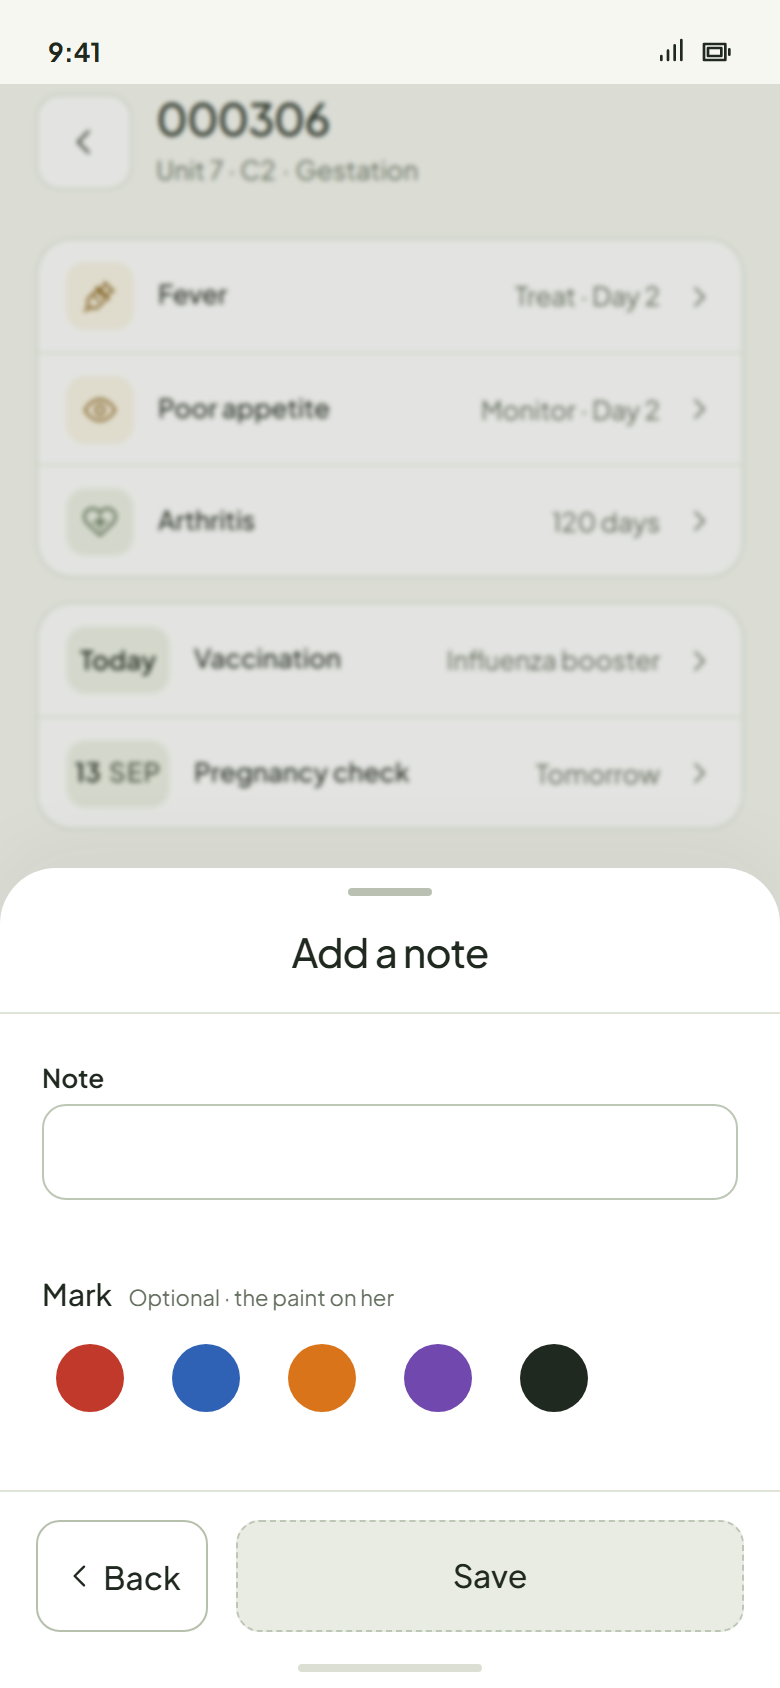
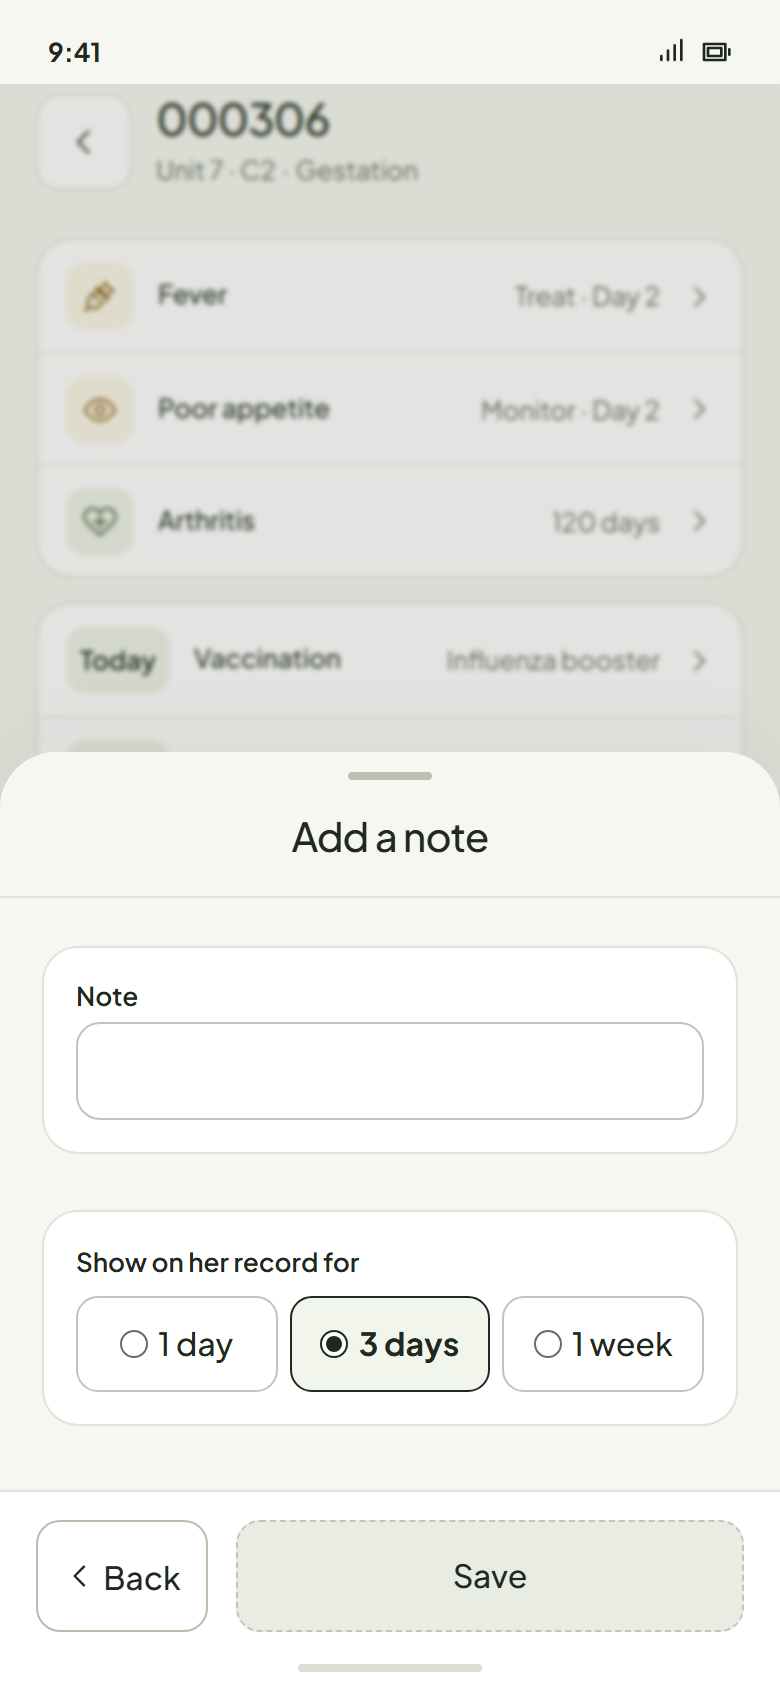
Pig record canvas: the note with no mark, and an end (Show on her record for 1 day / 3 days / 1 week), on a grey drawer

diff --git a/features/pig-profile/canvas.md b/features/pig-profile/canvas.md
@@ -1,4 +1,4 @@
 # Canvas
 
 - [Pig record: health chips](https://claude.ai/artifact/1DzGK7KGBoHqTeeweJw9Pz) (2026-11-03): the top of the pig record for a busy, a typical and a quiet sow. Columns: old (main), now (this branch: one-line rows, a shape per kind), A health as one sideways-swiping line of chips coloured by care, B the same with each care level's glyph; the task's date tile at 64px in A and B. Owner, 2026-11-03: kept now (one-line rows); chips not taken. Sources: `features/pig-profile/record-round/` (mock.mjs renders them from the live pages; nothing of A or B is built).
-  - Rows 4 and 5 (2026-11-03): the note as a bookmark. On the record a row led by the bookmark, text not bold, the paint's colour on the bookmark and its words on line 2; Add a note gains an optional Mark (five paint swatches, then Line / Dot / Cross). Four open questions on the canvas. Sources: `features/pig-profile/note-round/` (mock.mjs).
+  - Rows 4 and 5 (2026-11-03): the note as a bookmark. Round 1 offered an optional paint mark (colour, then Line / Dot / Cross); owner: no mark, keep it simple, and a note needs an expiry, and drawers are grey, never white. Round 2 (now on the canvas): on the record a row led by the bookmark, text not bold, "Until 15 Sep" on the right, gone from the record after that (the Log keeps it); Add a note on the tint, the note in a white card, then Show on her record for 1 day / 3 days / 1 week, 3 days chosen. Four open questions on the canvas. Sources: `features/pig-profile/note-round/` (mock.mjs).
